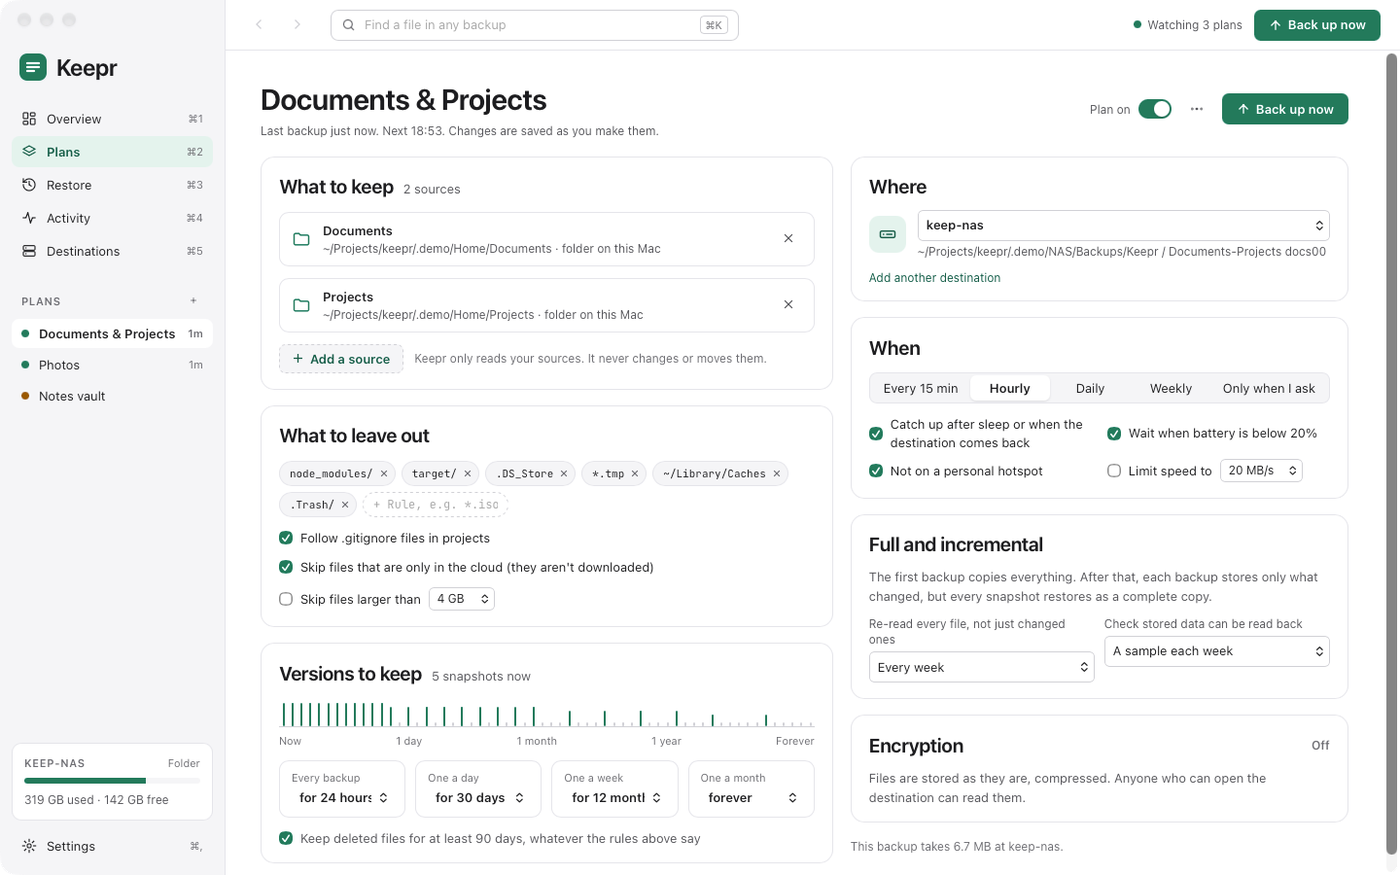
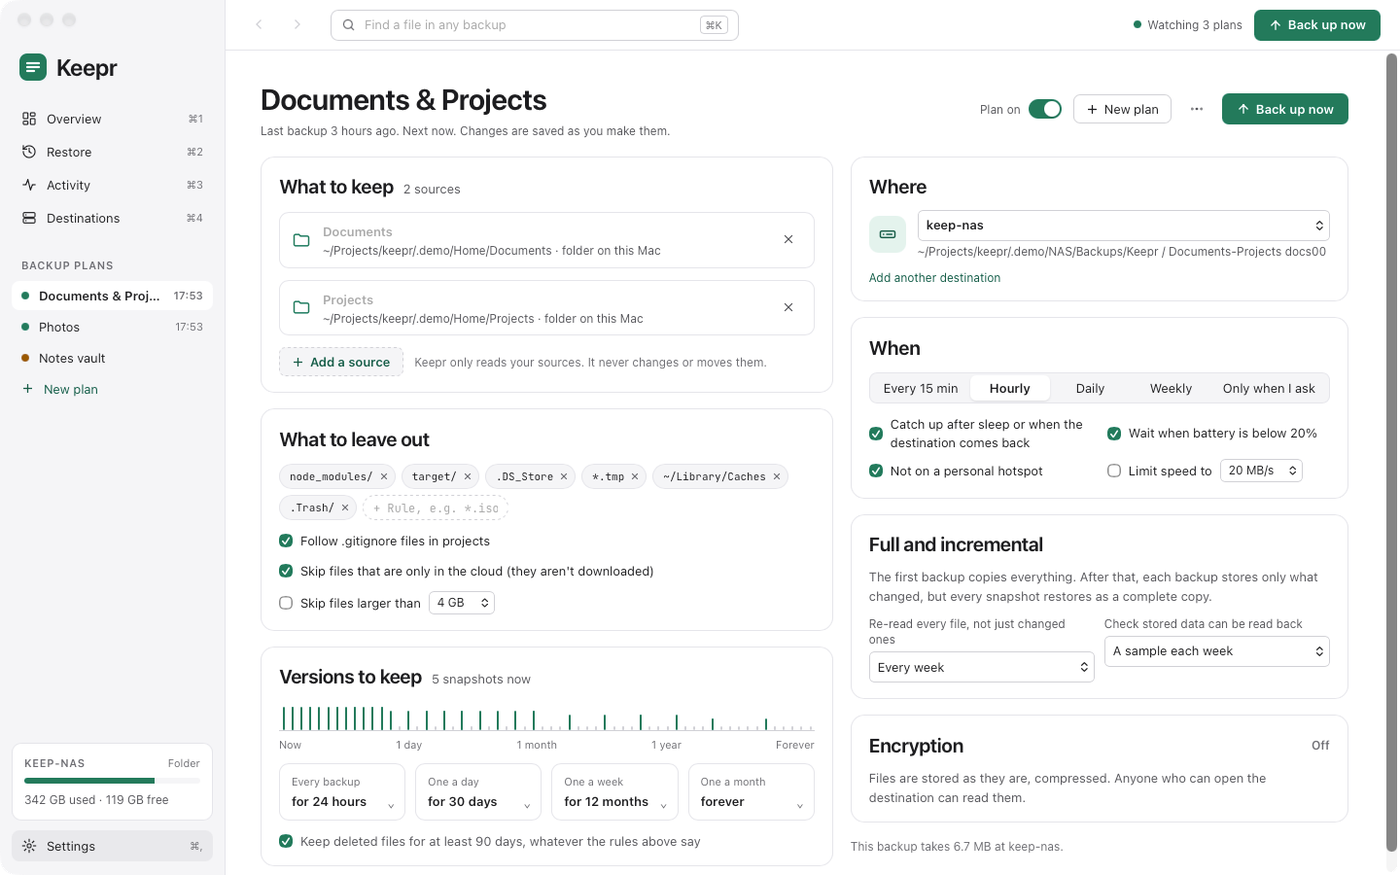
Backup Plans in the sidebar instead of a Plans screen item
The Plans item is gone; plans are listed under Backup Plans with a New plan
row, each opening its settings. Shortcuts are now ⌘1 Overview, ⌘2 Restore,
⌘3 Activity, ⌘4 Destinations. Default source names read as names.
Version 0.1.10.

diff --git a/src/App.tsx b/src/App.tsx
@@ -33,12 +33,12 @@ type AppCtx = {
 const Ctx = createContext<AppCtx>(null as unknown as AppCtx);
 export const useApp = () => useContext(Ctx);
 
+// Plans aren't here: they're listed under Backup Plans below, each opening its own settings.
 const NAV: [Screen["name"], string, string, string][] = [
   ["overview", "Overview", "overview", "⌘1"],
-  ["plans", "Plans", "plans", "⌘2"],
-  ["restore", "Restore", "restore", "⌘3"],
-  ["activity", "Activity", "activity", "⌘4"],
-  ["destinations", "Destinations", "server", "⌘5"],
+  ["restore", "Restore", "restore", "⌘2"],
+  ["activity", "Activity", "activity", "⌘3"],
+  ["destinations", "Destinations", "server", "⌘4"],
 ];
 
 export function statusDot(status: string): string {
@@ -69,30 +69,27 @@ function Sidebar() {
           </button>
         ))}
       </div>
-      {plans.length > 0 && (
-        <>
-          <div className="side-section">
-            <span className="caps">{restoring ? "Restore from" : "Plans"}</span>
-            {!restoring && (
-              <button className="iconbtn" style={{ width: 20, height: 20 }} aria-label="New plan" title="New plan ⌘N" onClick={() => go({ name: "plans", isNew: true })}>
-                <Icon name="plus" size={14} stroke={2.2} />
-              </button>
-            )}
-          </div>
-          <div className="col" style={{ gap: 2 }}>
-            {plans.map((p) => {
-              const on = (screen.name === "restore" || screen.name === "plans") && screen.plan === p.id;
-              return (
-                <button key={p.id} className={`side-item${on ? " on" : ""}`} onClick={() => go(restoring ? { name: "restore", plan: p.id } : { name: "plans", plan: p.id })}>
-                  <span className={statusDot(p.status)} />
-                  <span className="grow ellipsis">{p.name}</span>
-                  <span className="tiny faint">{restoring ? p.snapshots.toLocaleString() : p.status === "running" ? "…" : shortAgo(p.lastSuccess)}</span>
-                </button>
-              );
-            })}
-          </div>
-        </>
-      )}
+      <div className="side-section">
+        <span className="caps">{restoring ? "Restore from" : "Backup Plans"}</span>
+      </div>
+      <div className="col" style={{ gap: 2 }}>
+        {plans.map((p) => {
+          const on = (screen.name === "restore" || screen.name === "plans") && (screen.plan === p.id || (!screen.plan && !(screen.name === "plans" && screen.isNew) && plans[0].id === p.id));
+          return (
+            <button key={p.id} className={`side-item${on ? " on" : ""}`} onClick={() => go(restoring ? { name: "restore", plan: p.id } : { name: "plans", plan: p.id })} title={restoring ? `Restore from ${p.name}` : `${p.name}: ${p.schedule}`}>
+              <span className={statusDot(p.status)} />
+              <span className="grow ellipsis">{p.name}</span>
+              <span className="tiny faint">{restoring ? p.snapshots.toLocaleString() : p.status === "running" ? "…" : shortAgo(p.lastSuccess)}</span>
+            </button>
+          );
+        })}
+        {!restoring && (
+          <button className={`side-item${screen.name === "plans" && screen.isNew ? " on" : ""}`} onClick={() => go({ name: "plans", isNew: true })} title="Make a new backup plan ⌘N" style={{ color: "var(--accent-text)" }}>
+            <Icon name="plus" size={13} stroke={2.4} />
+            <span className="grow">New plan</span>
+          </button>
+        )}
+      </div>
       <div className="grow" />
       {nas && (
         <div className="side-card">
@@ -265,7 +262,7 @@ export default function App() {
   useEffect(() => {
     const k = (e: KeyboardEvent) => {
       if (!e.metaKey) return;
-      const i = "12345".indexOf(e.key);
+      const i = "1234".indexOf(e.key);
       if (i >= 0) {
         e.preventDefault();
         go({ name: NAV[i][0] } as Screen);

diff --git a/src/styles.css b/src/styles.css
@@ -246,3 +246,6 @@ html.tray body { background: transparent; }
 .traywin { margin: 0; background: var(--surface); border: 1px solid var(--line2); border-radius: 12px; overflow: hidden; display: flex; flex-direction: column; }
 .traywin .menu-item { display: flex; align-items: center; gap: 10px; height: 30px; padding: 0 12px; border: 0; border-radius: 7px; background: transparent; text-align: left; width: 100%; }
 .traywin .menu-item:hover { background: var(--accent-soft); color: var(--accent-text); }
+
+/* A source's default name reads as its name, not as a hint. */
+.source-name::placeholder { color: var(--ink); opacity: 1; }

diff --git a/src/Plans.tsx b/src/Plans.tsx
@@ -505,7 +505,7 @@ export default function Plans() {
                     <input
                       aria-label="Source name"
                       title="Rename this source"
-                      className="input"
+                      className="input source-name"
                       value={s.name ?? ""}
                       placeholder={fallback}
                       onChange={(e) => update((p) => ({ ...p, sources: p.sources.map((x, j) => (j === i ? { ...x, name: e.target.value || null } : x)) }))}
